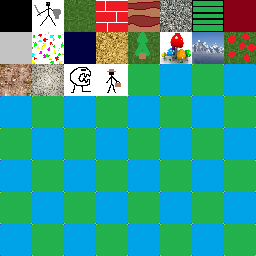
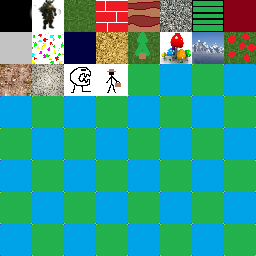
Dodanie widoku atrybutow , zmienienie tapety ekwipunku , dodanie menu w grze , dodanie paru kluczowych grafik , zmiana funcki drow w Game , pare optymalizacji w Menu.cpp

Changed region(s): [[0.0938, 0.0, 0.25, 0.125]]

diff --git a/Kod/rogalik/Menu.cpp b/Kod/rogalik/Menu.cpp
@@ -1,29 +1,28 @@
 #include "Menu.h"
 #include <iostream>
-int Menu::_indeks = 0;
 Menu::Menu()
 {
-	tab = new node[5];
+	_indeks = 0;
 	_tab = new bool[4];
+	for(int i = 0 ; i < 4 ;i++)
+		_tab[i] = false;
 	_tab[0] = true;
-	tlo.LoadFromFile("tlo.png");
-	/*start.LoadFromFile("start.png");
-	opcje.LoadFromFile("opcje.png");
-	wczytaj.LoadFromFile("wczytaj.png");
-	wyjscie.LoadFromFile("wyjscie.png");*/
+	tlo.LoadFromFile("Images/tlo.png");
 	var = true;
-
-	//tab[0].wsk = &tlo;
-	//tab[0].wartosc = false;
+}
+Menu::~Menu()
+{
+	//delete []_tab;
+	//_tab = NULL;
 }
 void Menu::draw(sf::RenderWindow& rw)
 {
 	sf::Sprite tloH(tlo);
 	rw.Draw(tloH);
 	if(_tab[0])
-		start.LoadFromFile("ee.png");
+		start.LoadFromFile("Images/start1.png");
 	else
-		start.LoadFromFile("start.png");
+		start.LoadFromFile("Images/start.png");
 	sf::Sprite startH(start,sf::Vector2f(296,240));
 	rw.Draw(startH);
 	if(_tab[1])
@@ -45,6 +44,30 @@ void Menu::draw(sf::RenderWindow& rw)
 	sf::Sprite wyjscieH(wyjscie,sf::Vector2f(294,404));
 	rw.Draw(wyjscieH);
 }
+void Menu::drawMenuGame(sf::RenderWindow& rw)
+{
+	static sf::Image wznow,zapisz;
+	if(_tab[0])
+		wznow.LoadFromFile("Images/wznow1.png");
+	else
+		wznow.LoadFromFile("Images/wznow.png");
+	if(_tab[1])
+		zapisz.LoadFromFile("Images/zapisz1.png");
+	else
+		zapisz.LoadFromFile("Images/zapisz.png");
+	if(_tab[2])
+		wyjscie.LoadFromFile("Images/wyjscie1.png");
+	else
+		wyjscie.LoadFromFile("Images/wyjscie.png");
+	sf::Sprite tloH(tlo);
+	rw.Draw(tloH);
+	sf::Sprite wznowH(wznow,sf::Vector2f(270,210));
+	rw.Draw(wznowH);
+	sf::Sprite zapiszH(zapisz,sf::Vector2f(275,269));
+	rw.Draw(zapiszH);
+	sf::Sprite wyjscieH(wyjscie,sf::Vector2f(280,329));
+	rw.Draw(wyjscieH);
+}
 void Menu::setVar(const bool ws)
 {
 	var = ws;
@@ -53,39 +76,69 @@ bool Menu::getVar() const
 {
 	return var;
 }
-void Menu::Action(sf::Key::Code wsk)
+void Menu::Action(const sf::Event& e)
 {
-	if(wsk == sf::Key::N)
+	if(e.Type == sf::Event::KeyPressed && e.Key.Code == sf::Key::N)
 	{
 		var=false;
 	}
-	else if (wsk == sf::Key::O)
+	else if (e.Type == sf::Event::KeyPressed && e.Key.Code == sf::Key::O)
 	{
 		//opcje
 	}
-	else if(wsk == sf::Key::W)
+	else if(e.Type == sf::Event::KeyPressed && e.Key.Code == sf::Key::W)
 	{
 		//wczytaj
 	}
-	else if(wsk ==  sf::Key::Up)
+	else if(e.Type == sf::Event::KeyPressed && e.Key.Code ==  sf::Key::Up)
 	{
-		//std::cout<< "Strzala w gore"<< std::endl;
 		if(_indeks > 0)
 		{
 			_indeks--;
-			for(int i = 0 ; i < 4 ;i++)
-				_tab[i] = false;
-			_tab[_indeks] = true;
 		}
+		for(int i = 0 ; i < 4 ;i++)
+			_tab[i] = false;
+		_tab[_indeks] = true;
 	}
-	else if(wsk ==  sf::Key::Down)
+	else if(e.Key.Code ==  sf::Key::Down && e.Type == sf::Event::KeyPressed)
 	{
-		//std::cout << "Strzala w dol"<< std::endl;
-		if(_indeks < 4)
+		if(_indeks < 3)
 			_indeks++;
 		for(int i = 0 ; i < 4 ;i++)
 				_tab[i] = false;
 		_tab[_indeks] = true;
-		//std::cout<<_indeks << std::endl;
+	}
+	else if(e.Key.Code ==  sf::Key::Space && e.Type == sf::Event::KeyPressed)
+	{
+		for(int i = 0 ; i < 4 ; i++)
+			if(_tab[0])
+				var=false;
+			else if (_tab[1])
+				break; //wczytaj
+			else if(_tab[2])
+				break;//opcje
+			else if(_tab[3])
+				break; //exit
+	}
+}
+void Menu::ActionGameMenu(const sf::Event& e)
+{
+	if(e.Type == sf::Event::KeyPressed && e.Key.Code ==  sf::Key::Up)
+	{
+		if(_indeks > 0)
+		{
+			_indeks--;
+		}
+		for(int i = 0 ; i < 3 ;i++)
+			_tab[i] = false;
+		_tab[_indeks] = true;
+	}
+	else if(e.Key.Code ==  sf::Key::Down && e.Type == sf::Event::KeyPressed)
+	{
+		if(_indeks < 2)
+			_indeks++;
+		for(int i = 0 ; i < 3 ;i++)
+				_tab[i] = false;
+		_tab[_indeks] = true;
 	}
 }

diff --git a/Kod/rogalik/Game.cpp b/Kod/rogalik/Game.cpp
@@ -20,6 +20,14 @@ void Game::getInput(const sf::Event& e)
 		{
 			gameState = INVENTORY;
 		}
+		else if( e.Type == sf::Event::KeyPressed && e.Key.Code == sf::Key::A) // atributes
+		{
+			gameState = ATRIBUTES;
+		}
+		else if ( e.Type == sf::Event::KeyPressed && e.Key.Code == sf::Key::Escape)
+		{
+			gameState = GAMEMENU;
+		}
 	}
 	else if(gameState == INVENTORY)
 	{
@@ -28,6 +36,23 @@ void Game::getInput(const sf::Event& e)
 		{
 			gameState = INGAME;
 		}
+	}
+	else if(gameState == ATRIBUTES)
+	{
+		if( e.Type == sf::Event::KeyPressed && (e.Key.Code == sf::Key::A ||
+			e.Key.Code == sf::Key::Escape)) // wyjscie z Atributes
+		{
+			gameState = INGAME;
+		}
+	}
+	else if(gameState == GAMEMENU)
+	{
+		if( e.Type == sf::Event::KeyPressed && (e.Key.Code == sf::Key::Escape)) // wyjscie z menu gry
+		{
+			gameState = INGAME;
+		}
+		else if(e.Type == sf::Event::KeyPressed || e.Type == sf::Event::KeyReleased)
+			m.ActionGameMenu(e);
 	}
 	else if(gameState == DIALOG)
 	{
@@ -73,7 +98,7 @@ void Game::step(float dt)
 	}
 }
 
-void Game::draw(sf::RenderWindow& rw) const
+void Game::draw(sf::RenderWindow& rw)
 {
 	if(gameState == INGAME)
 	{
@@ -96,6 +121,14 @@ void Game::draw(sf::RenderWindow& rw) const
 	else if(gameState == DIALOG)
 	{
 		currentDialog->draw(rw);
+	}
+	else if(gameState == ATRIBUTES)
+	{
+		player.drawAtributes(rw);
+	}
+	else if(gameState == GAMEMENU)
+	{
+		m.drawMenuGame(rw);
 	}
 }
 

diff --git a/Kod/rogalik/main.cpp b/Kod/rogalik/main.cpp
@@ -25,11 +25,11 @@ int main()
 		sf::Event Event;
 		if(m.getVar()) while(App.GetEvent(Event))
 		{
-			if(Event.Type == sf::Event::Closed || Event.Key.Code=='e' )//|| Event.Key.Code == sf::Key::Escape)
+			if(Event.Type == sf::Event::Closed || Event.Key.Code==sf::Key::E )//|| Event.Key.Code == sf::Key::Escape)
 				App.Close();
-			else
+			else if (Event.Type == sf::Event::KeyPressed || Event.Type == sf::Event::KeyReleased)
 			{
-				m.Action(Event.Key.Code);
+				m.Action(Event);
 			}
 		}
 		if(m.getVar())
@@ -42,7 +42,7 @@ int main()
 		{
 			while(App.GetEvent(Event))
 			{
-				if(Event.Type == sf::Event::Closed || Event.Key.Code=='e')
+				if(Event.Type == sf::Event::Closed || Event.Key.Code==sf::Key::E)
 				{
 					App.Close();
 				}
